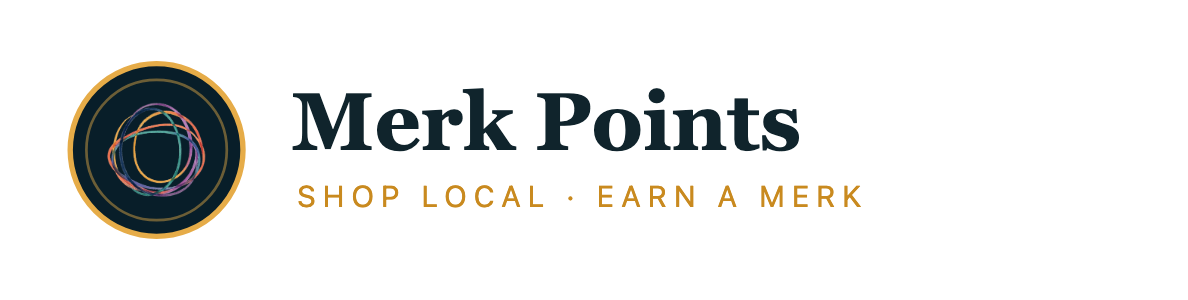
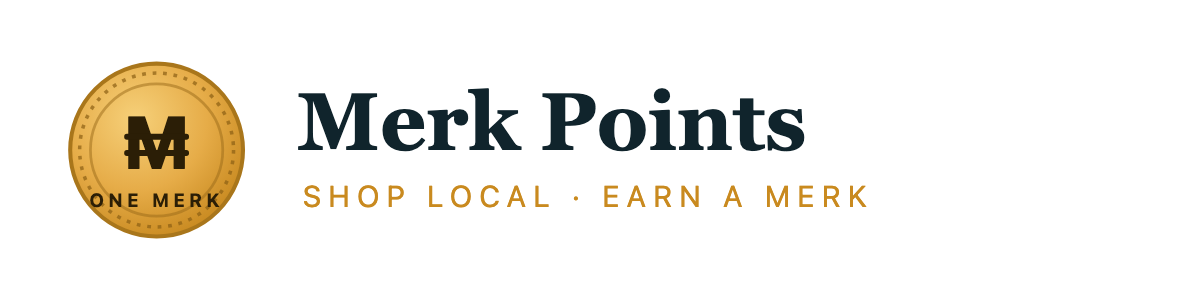
Merk Points: mint the coin — gold coin face + merk currency symbol
Redraw the lockup badge as a minted 1-merk coin: gold face, milled
(dashed) edge, an invented merk currency symbol (an M struck with two
bars, ala the won/naira marks) and 'ONE MERK'. Updates hero SVG + the
standalone email PNG.

diff --git a/public/merk-points.html b/public/merk-points.html
@@ -137,12 +137,23 @@
       </a>
       <span class="coord">60° North</span>
     </div>
-    <svg class="mplockup" viewBox="0 0 400 76" role="img" aria-label="Merk Points — shop local, earn a merk" xmlns="http://www.w3.org/2000/svg">
-      <circle cx="38" cy="38" r="32" fill="#081e29" stroke="#e6ac48" stroke-width="2"/>
-      <circle cx="38" cy="38" r="26" fill="none" stroke="#e6ac48" stroke-width="1" opacity="0.45"/>
-      <image href="/brand/logo-mark-keyed.png" x="16" y="16" width="44" height="44"/>
-      <text x="88" y="38" font-family="Georgia, 'Times New Roman', serif" font-size="30" font-weight="600" fill="#ffffff">Merk Points</text>
-      <text x="90" y="59" font-family="system-ui, -apple-system, sans-serif" font-size="11" letter-spacing="2.4" fill="#e6ac48">SHOP LOCAL · EARN A MERK</text>
+    <svg class="mplockup" viewBox="0 0 400 76" role="img" aria-label="Merk Points — one merk. Shop local, earn a merk" xmlns="http://www.w3.org/2000/svg">
+      <defs>
+        <radialGradient id="coinface" cx="38%" cy="32%" r="75%">
+          <stop offset="0%" stop-color="#f6d079"/>
+          <stop offset="55%" stop-color="#e6ac48"/>
+          <stop offset="100%" stop-color="#c6871d"/>
+        </radialGradient>
+      </defs>
+      <circle cx="38" cy="38" r="32" fill="url(#coinface)" stroke="#a9761b" stroke-width="1.5"/>
+      <circle cx="38" cy="38" r="28.5" fill="none" stroke="#8c5f14" stroke-width="1.3" stroke-dasharray="1.4 2.5" opacity="0.7"/>
+      <circle cx="38" cy="38" r="24.5" fill="none" stroke="#9a6a17" stroke-width="1" opacity="0.5"/>
+      <text x="38" y="45" text-anchor="middle" font-family="'Helvetica Neue', Arial, sans-serif" font-weight="800" font-size="27" fill="#2b1e06">M</text>
+      <rect x="26" y="32" width="24" height="2.2" rx="1" fill="#2b1e06"/>
+      <rect x="26" y="38" width="24" height="2.2" rx="1" fill="#2b1e06"/>
+      <text x="38" y="59" text-anchor="middle" font-family="system-ui, -apple-system, sans-serif" font-weight="700" font-size="7" letter-spacing="1.3" fill="#2b1e06">ONE MERK</text>
+      <text x="90" y="38" font-family="Georgia, 'Times New Roman', serif" font-size="30" font-weight="600" fill="#ffffff">Merk Points</text>
+      <text x="92" y="59" font-family="system-ui, -apple-system, sans-serif" font-size="11" letter-spacing="2.4" fill="#e6ac48">SHOP LOCAL · EARN A MERK</text>
     </svg>
     <p class="eyebrow">A community concept</p>
     <h1>Shop local. Earn a stake in Shetland's shared life.</h1>
